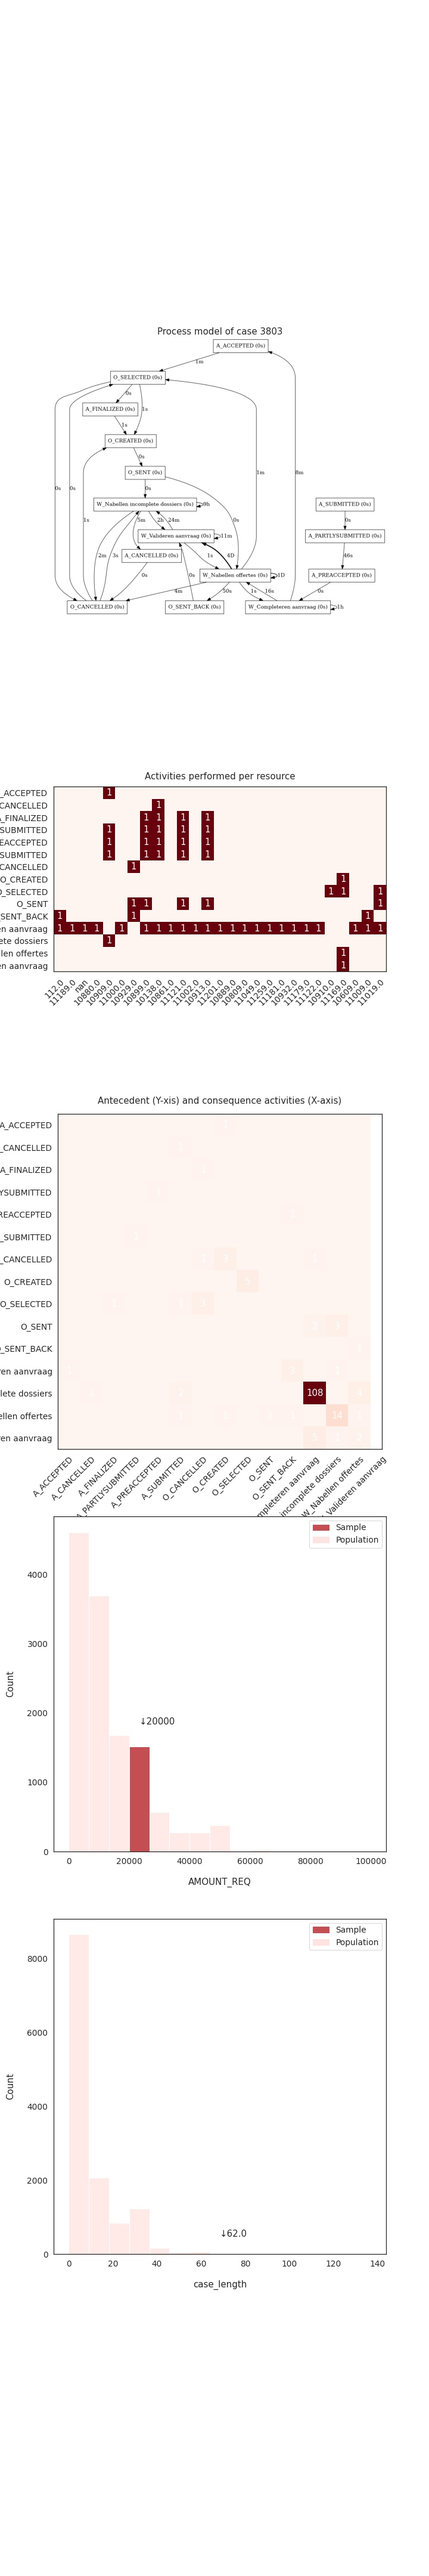
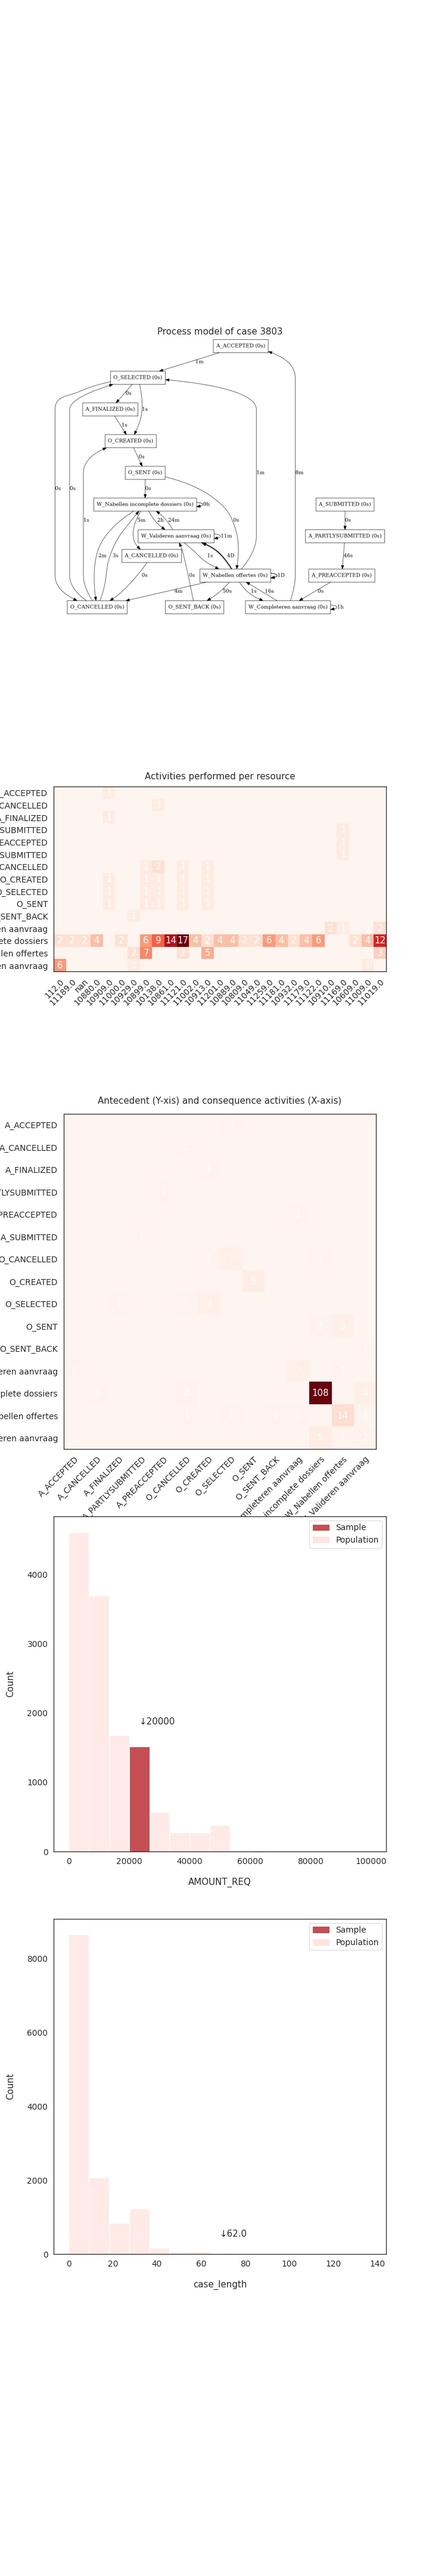
Visuals update

Changed region(s): [[0.0, 0.4375, 0.8556, 0.5938], [0.1222, 0.2812, 0.9167, 0.375], [0.8556, 0.4375, 0.9167, 0.5625]]

diff --git a/compliance_analysis/aad_experiment/aad/anomaly.py b/compliance_analysis/aad_experiment/aad/anomaly.py
@@ -155,16 +155,10 @@ def show_anomaly(queried, df):
     position += 1
 
     # Create input for research/activity table
-    sample = pd.DataFrame(queried_case[['concept:name','org:resource']].value_counts().reset_index())
-    sample = pd.DataFrame(pd.concat([sample['concept:name'], pd.get_dummies(sample['org:resource'])], axis=1).value_counts()).reset_index()
-    user_columns = sample.iloc[:,1:-1]
-    table_input = sample['concept:name'].drop_duplicates().reset_index(drop=True)
-    for user in user_columns.columns:
-        user_data = sample.groupby(['concept:name'], as_index=False).agg({user:'sum'})
-        table_input = pd.concat([table_input, user_data.iloc[:,1:]], axis=1)
-
-    table_input.sort_values(by='concept:name', inplace=True)
-    table_input = np.asarray(table_input.iloc[:,1:])
+    table_input = pd.DataFrame(queried_case[['concept:name','org:resource']].value_counts().reset_index())
+    table_input = table_input.pivot_table(index='concept:name', columns='org:resource', values=0, fill_value=0).reset_index()
+    table_input.drop(['concept:name'], axis=1, inplace=True)
+    table_input = np.asarray(table_input)
 
     # Create custom table
     activities, resources = sorted(list(queried_case['concept:name'].unique())), list(queried_case['org:resource'].unique())
@@ -205,12 +199,14 @@ def show_anomaly(queried, df):
     empty_list.drop(['activity'], axis=1, inplace=True)
 
     # Create custom table
-    activities = sorted(list(activity_list['activity'].unique()))
+    # activities = sorted(list(activity_list['activity'].unique()))
+    activities_y = sorted(list(activity_list['activity'].unique()))
+    activities_x = sorted(list(activity_list['consequence'].unique()))
     ax[position].imshow(np.asarray(empty_list), cmap='Reds')
-    ax[position].set_xticks(np.arange(len(activities)))
-    ax[position].set_yticks(np.arange(len(activities)))
-    ax[position].set_xticklabels(activities)
-    ax[position].set_yticklabels(activities)
+    ax[position].set_xticks(np.arange(len(activities_x)))
+    ax[position].set_yticks(np.arange(len(activities_y)))
+    ax[position].set_xticklabels(activities_x)
+    ax[position].set_yticklabels(activities_y)
     ax[position].set_title("Antecedent (Y-xis) and consequence activities (X-axis)", y=1.02)
     plt.setp(ax[position].get_xticklabels(), rotation=45, ha="right",
             rotation_mode="anchor")

diff --git a/main.py b/main.py
@@ -9,7 +9,7 @@ from preprocessing.enrich import enrich
 from compliance_analysis.aad_experiment.aad.anomaly import detect_anomalies
 from compliance_analysis.aad_experiment.aad.anomaly import show_anomaly
 tqdm.pandas()
-data_source = '/workspaces/thesis/2012_features.gzip'
+data_source = '/workspaces/thesis/data/enriched/2012_features.gzip'
 # %%
 # Preprocess data
 preprocessed = preprocessor.column_rename(
@@ -43,7 +43,7 @@ numeric_encoding = {
 # encoded_numeric = encoder.numeric_encoder(preprocessed, numeric_encoding)
 # encoded_categorical = encoder.categorical_encoder(preprocessed)
 # encoded_data = pd.concat([encoded_numeric, encoded_categorical.reset_index()], axis=1).fillna(0)
-encoded_data = pd.read_csv('/workspaces/thesis/encoded_2012.csv')
+encoded_data = pd.read_csv('/workspaces/thesis/data/encoded/encoded_2012.csv')
 # preprocessed.num_cols.drop(['Unnamed: 0'], axis=1, inplace=True)
 encoded_data.drop(['Unnamed: 0'], axis=1, inplace=True)
 # %%
@@ -62,10 +62,8 @@ df2 = df2.sort_values("scores")
 print(df2)
 
 process = 1
-for i in df2['@@index'].head(100):
+for i in df2['@@index'].head(1):
     show_anomaly(i, preprocessed)
     print('Processed {} of 100..'.format(process))
     process += 1
 print('Done')
-
-# %%
